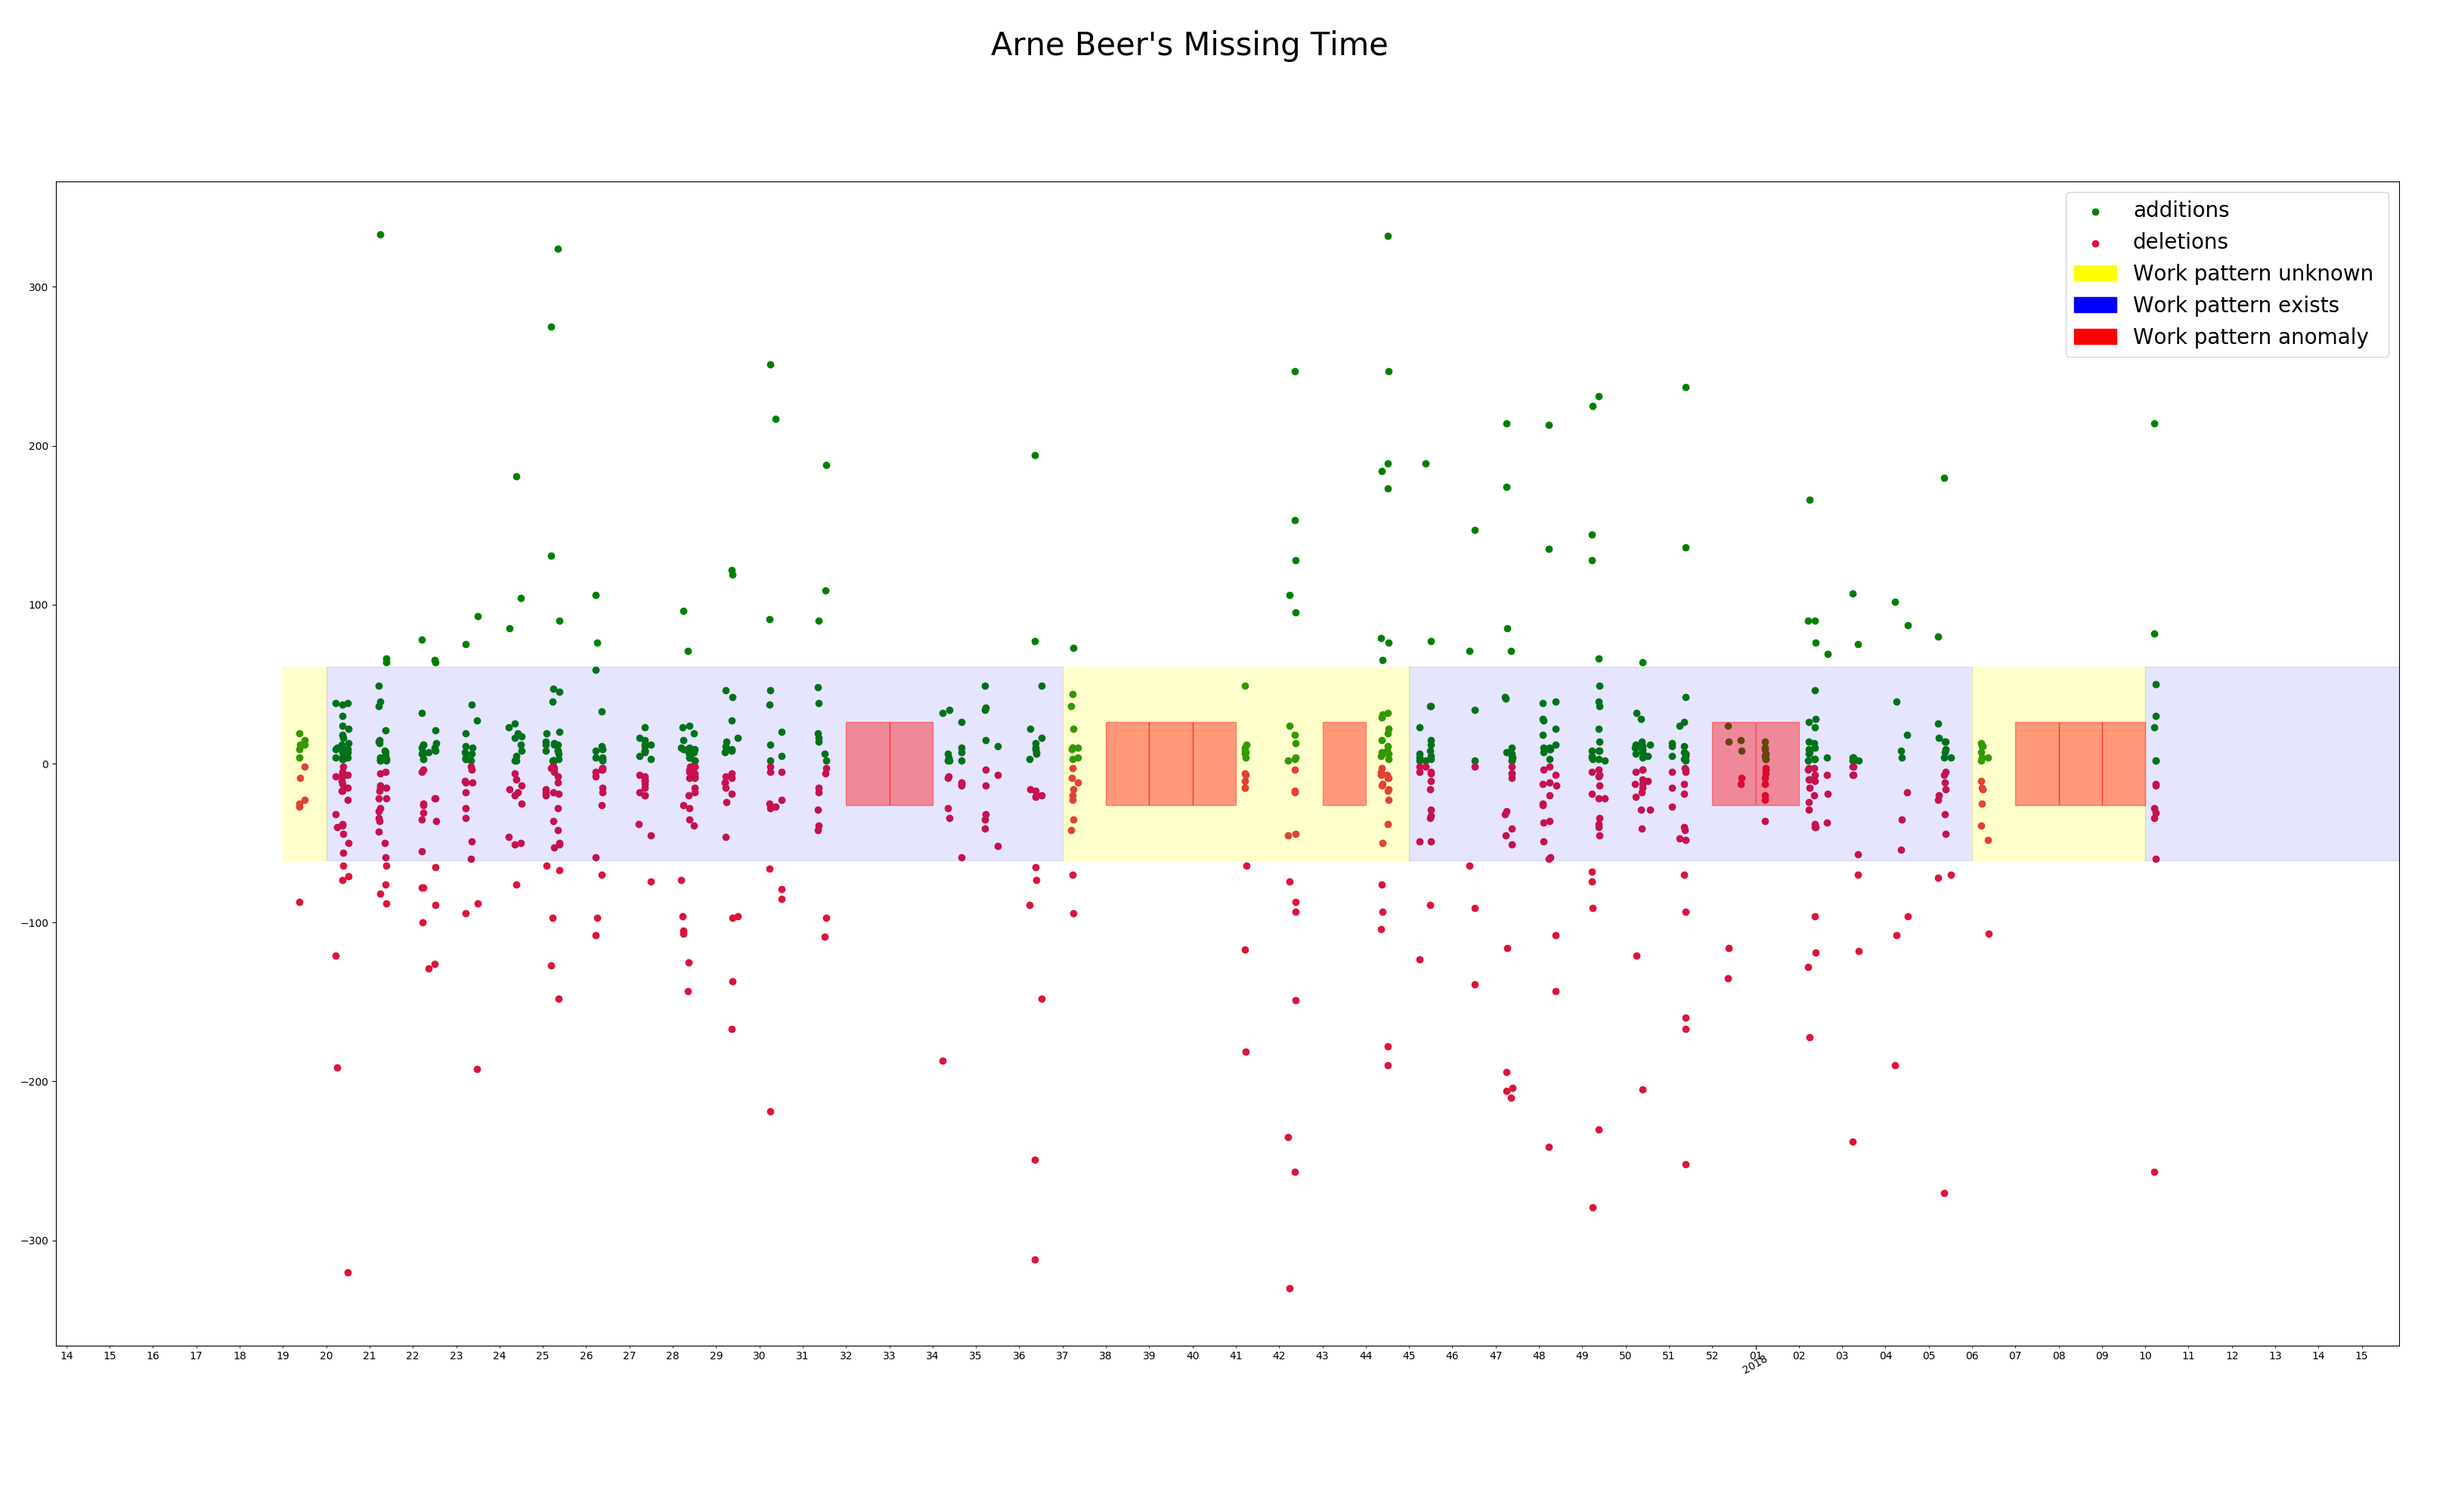
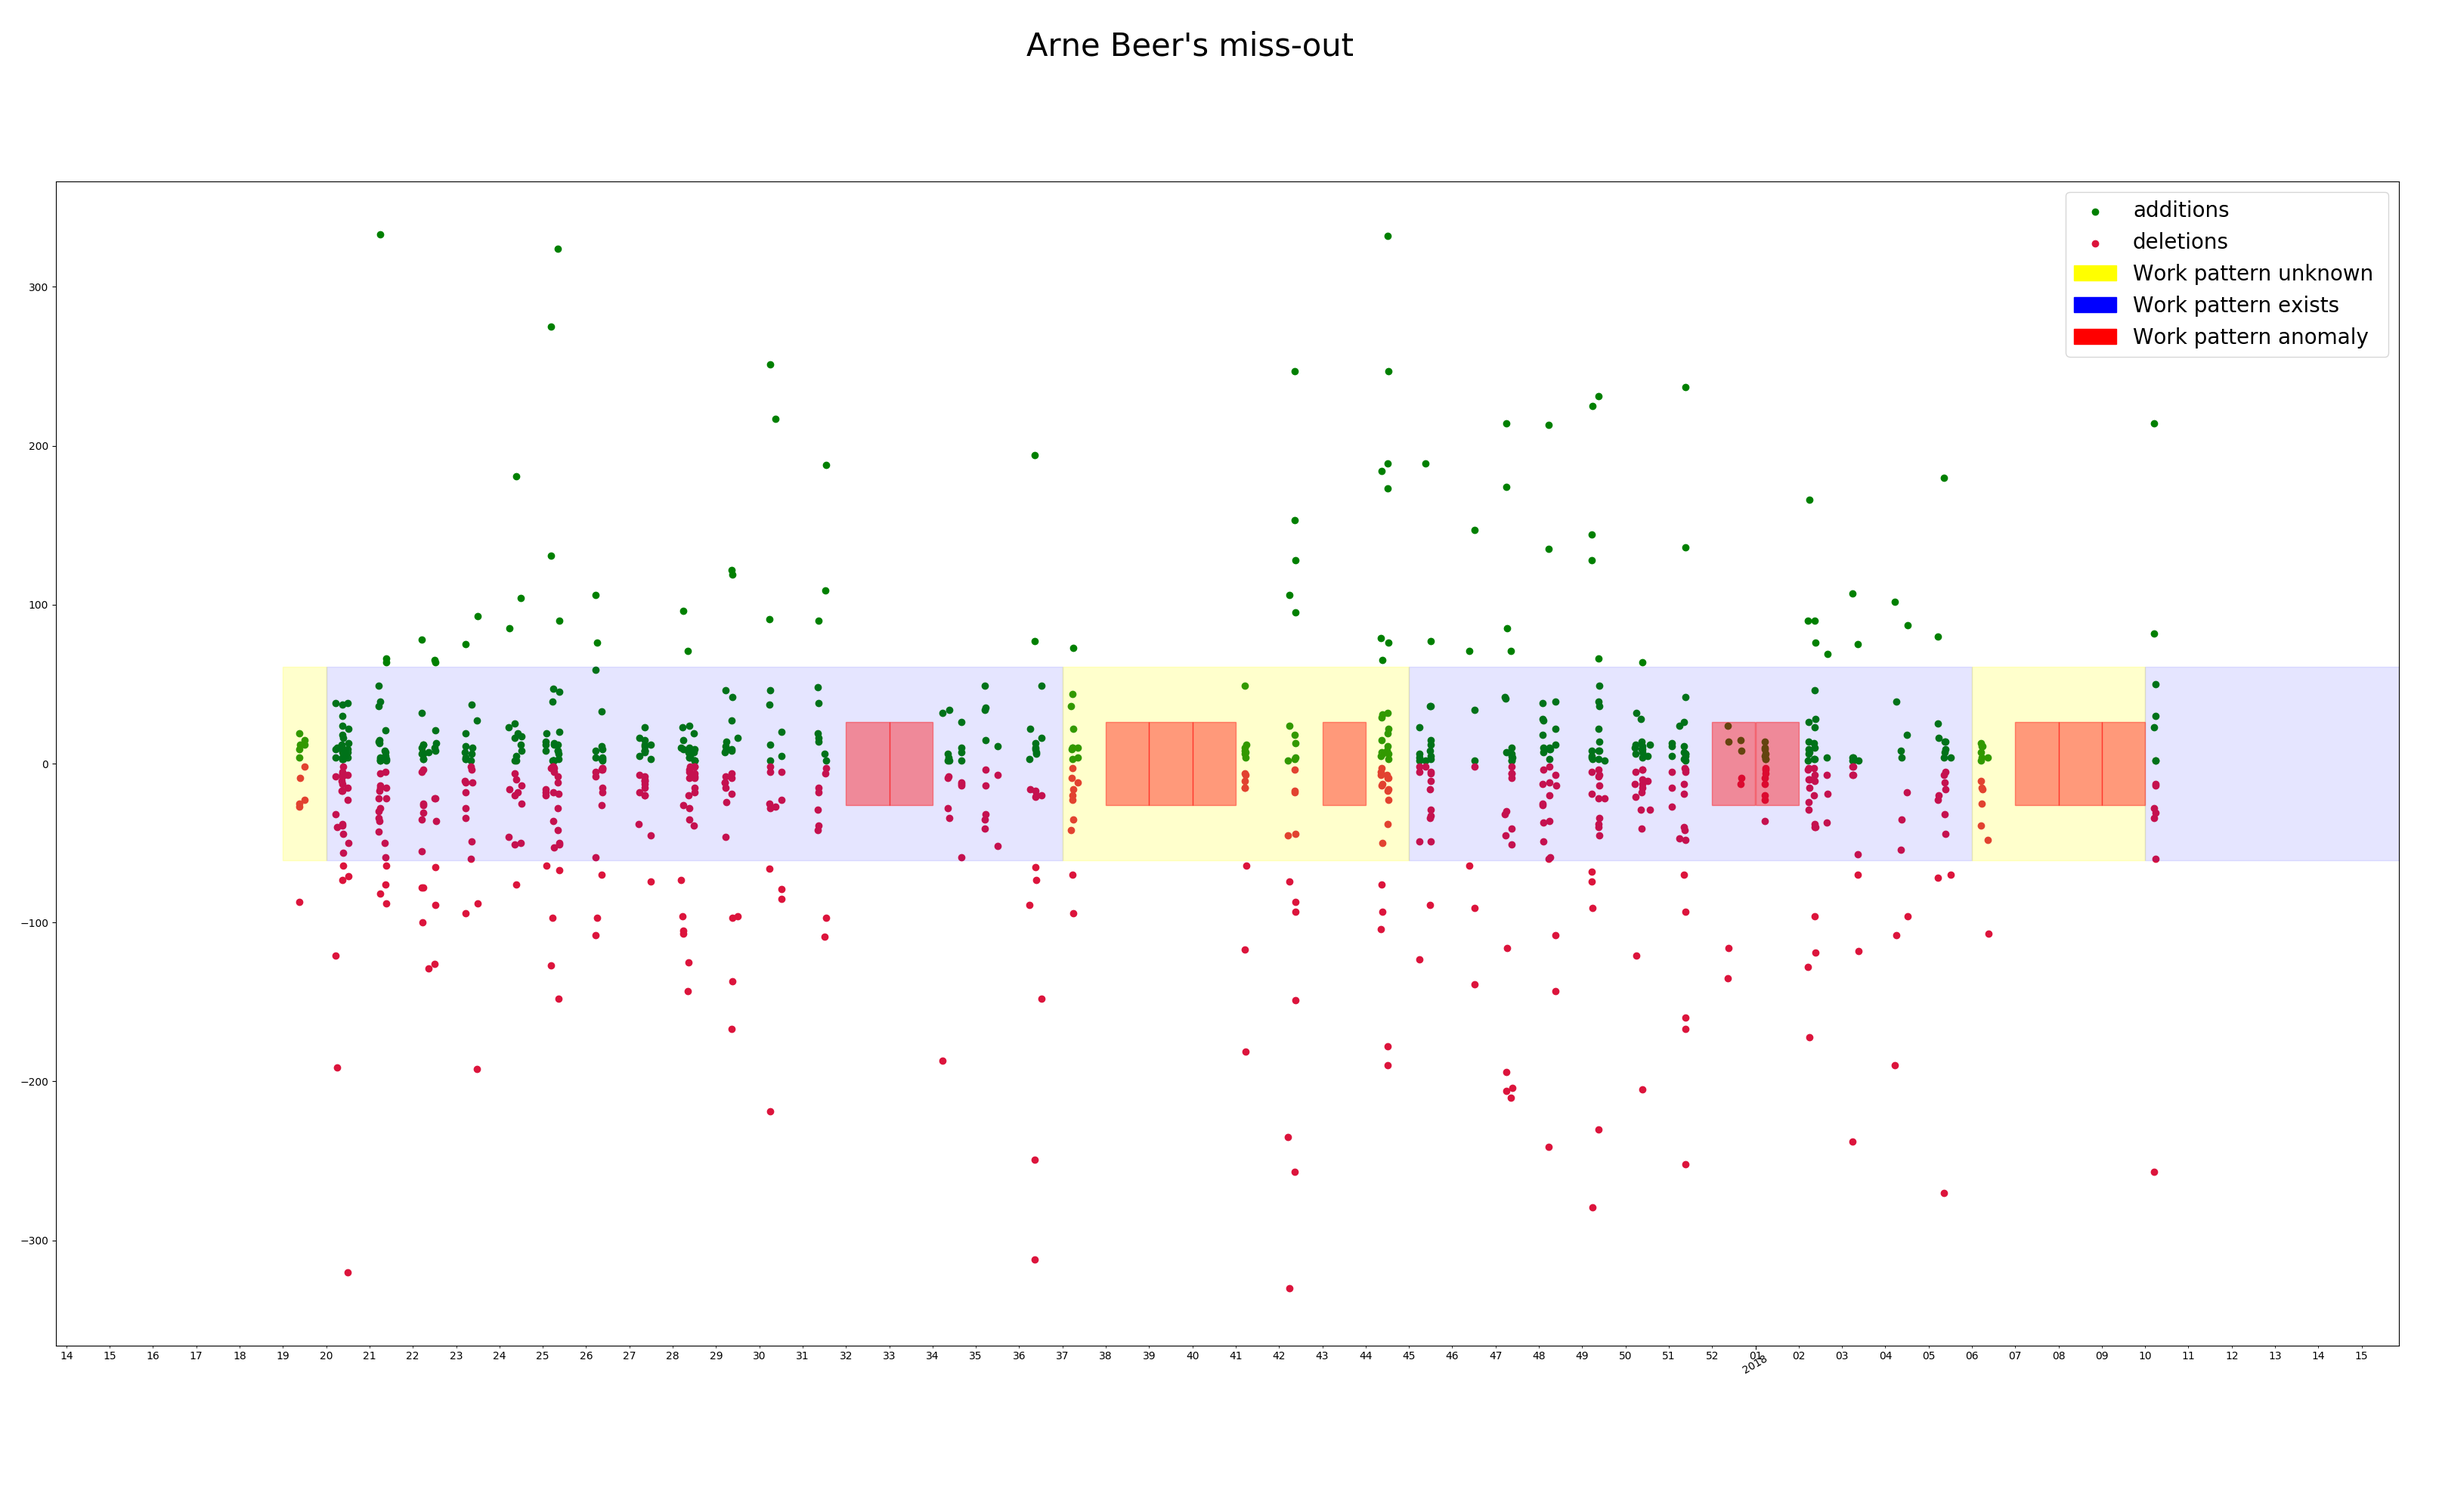
Miss-out analysis

diff --git a/thesis/chapter/analysis/analysis.tex b/thesis/chapter/analysis/analysis.tex
@@ -11,7 +11,7 @@ For instance this could be abused by head hunters or personnel managers to cull 
 For employees this might convenient to detect anomalies in the productivity of an employee.
 In case an employee doesn't commit on a regular basis for several days, this behaviour would be instantly visible with this method.
 
-Another attack vector could be to look at the correlation of missing time between several employees.
+Another attack vector could be to look at the correlation of miss-out between several employees.
 This attack could even be performed by an outsider, if the employees of a company are known.
 The information gained by this attack could be quite delicate, as they could reveal relationships between employees.
 This attack is heavily inspired by an article about data mining articles from the popular German weekly magazine \emph{Der Spiegel} written by the David Kriesel~\cite{article:spiegel-mining}.
@@ -27,7 +27,7 @@ The input for this analysis is the intersection between all commits from the con
 The commits' meta data used for this analysis are time stamps as well as additions and deletions in lines of code.
 
 \begin{figure}[H]
-    \includegraphics[scale=0.21]{./graphs/analysis/work-time-analysis}
+    \includegraphics[scale=0.20]{./graphs/analysis/work-time-analysis}
     \centering
     \caption{The work time analysis of the author.}\label{fig:missing-time}
 \end{figure}
@@ -39,35 +39,80 @@ It is really difficult to measure productivity in lines of code committed or in 
 As a result I decided, that a day counts as a work day as long as at least single commit has been made during the day.
 
 \begin{minted}{python}
+def analyse(weeks):
     prototype = None
-    while len(weeks) > 0:
-        week = weeks.pop
+    for index, week in weeks.items():
+        next_six_weeks = weeks[index:index+future_lookup]
         if not prototype:
             # See if there is a prototype in the next few weeks.
-            prototype = find_prototype(week, weeks)
+            prototype = find_prototype(next_six_weeks)
 
             # Check if this specific week is a anomaly
             check_anomaly(prototype, week)
 
             continue
 
-
-        prototype_exists = prototype_in_next_weeks(weeks)
+        prototype_exists = prototype_exists_in_next_weeks(next_six_weeks)
         if not prototype_exists:
             # We couldn't find the prototype in the next few rows
             # Try to find a new prototype
-            prototype = find_prototype(week, weeks)
+            prototype = find_prototype(next_six_weeks)
 
         check_anomaly(prototype, week)
+
+
+def check_anomaly(prototype, week):
+    if week.working_days == 0:
+        save_anomaly(week)
+
+    if prototype is not None:
+        different_days = week.working_days - prototype.working_days
+        // A single day variance is acceptable
+        if different_days >= 1:
+            save_anomaly(week)
+
 \end{minted}
+\begingroup
+\captionof{listing}{Miss-out analysis \label{lst:naive-path-tracing}.}
+\endgroup
 
-The algorithm looks at every week of the past year.
-At the beginning of the algorithm it tries to find a new \emph{prototype}.
-A prototype is a representative week work pattern, which resembles at least four weeks in the next six weeks.
-
+The algorithm inspects every week work pattern of a given interval.
+At the beginning a new \emph{prototype} is tried to be found.
+A prototype is a representative week work pattern, which resembles the average work day pattern of the next weeks.
+This happens in the function \inlinecode{find\_prototype}.
+It performs a simple iteration over a given interval to find a work day pattern, which occurs more often than a given threshold.
 If a prototype is found, we are capable of identifying anomalies that deviate from this pattern.
-For each following week is checked, if it is considerably different from the prototype and if there exists an identical week pattern in the near future.
-If there is no identical pattern in the near future, the current work pattern ends and a new prototype needs to be found.
 
-In case no prototype exists, anomalies cannot be easily identify and will only be marked as such, in case of obvious anomalies like weeks completely without commits.
-Each week will be inspected and a new prototype tried to be found.
+For each following week it is firstly checked if this week is a anomaly for this prototype.
+Anomalies are simply detected by comparing the amount of working days of the prototype and the currently looked at week.
+The real difference in the working pattern is not suitable for this analysis, as it produces too many false positives for employees with flexible work time.
+
+Secondly it is checked if there exists a week in the near future, which is identical to the prototype.
+If there is no week identical to the prototype in the near future, the current prototype is reset and a new prototype needs to be found.
+
+In case no prototype can be found, anomalies cannot be easily identified, as there exists no pattern to check against.
+Only obvious anomalies, namely weeks without a single work day, will then be marked as such.
+
+
+\subsection{Interpretation and evaluation}
+
+Figure~\ref{fig:missing-time} shows the analysis of the author for his work repositories.
+The y-axis shows the additions or deletions per commit, the x-axis shows the week of a year.
+For better analysis and evaluation of the results, a scatter plot with the additions and deletions per commit has been added on top of the miss-out graph.
+
+The evaluation of this algorithm turned out to be quite difficult, as there is no publicly available information about sick leave or holiday.
+For the purpose of this thesis I had to use anonymous statistics of several friends and colleagues to evaluate the algorithm.
+The algorithm successfully manages to find all anomalies, which occurred in the last year, for all seven regarded users.
+
+An unexpected side effect of detecting prototypes is that the algorithm also also finds inconsistencies in the work routine.
+For instance between week 37 to 45 in Figure~\ref{fig:missing-time} I was forced to reduce my working hours due to legal questions and shift hours and working days.
+It is hard to interpret those inconsistencies without more contextual information, but nevertheless it provides the fact that something happened during this time.
+
+\begin{figure}[H]
+    \includegraphics[scale=0.20]{./graphs/analysis/work-time-analysis-comparison}
+    \centering
+    \caption{The miss-out analysis of several employees.}\label{fig:miss-out-comparison}
+\end{figure}
+
+In Figure~\ref{fig:miss-out-comparison} the comparison between multiple employees can be seen.
+Contributor0 and Contributor2 are working on flexible work time, while the other two contributors have regular working hours, which reflects in the inconsistencies of those contributors.
